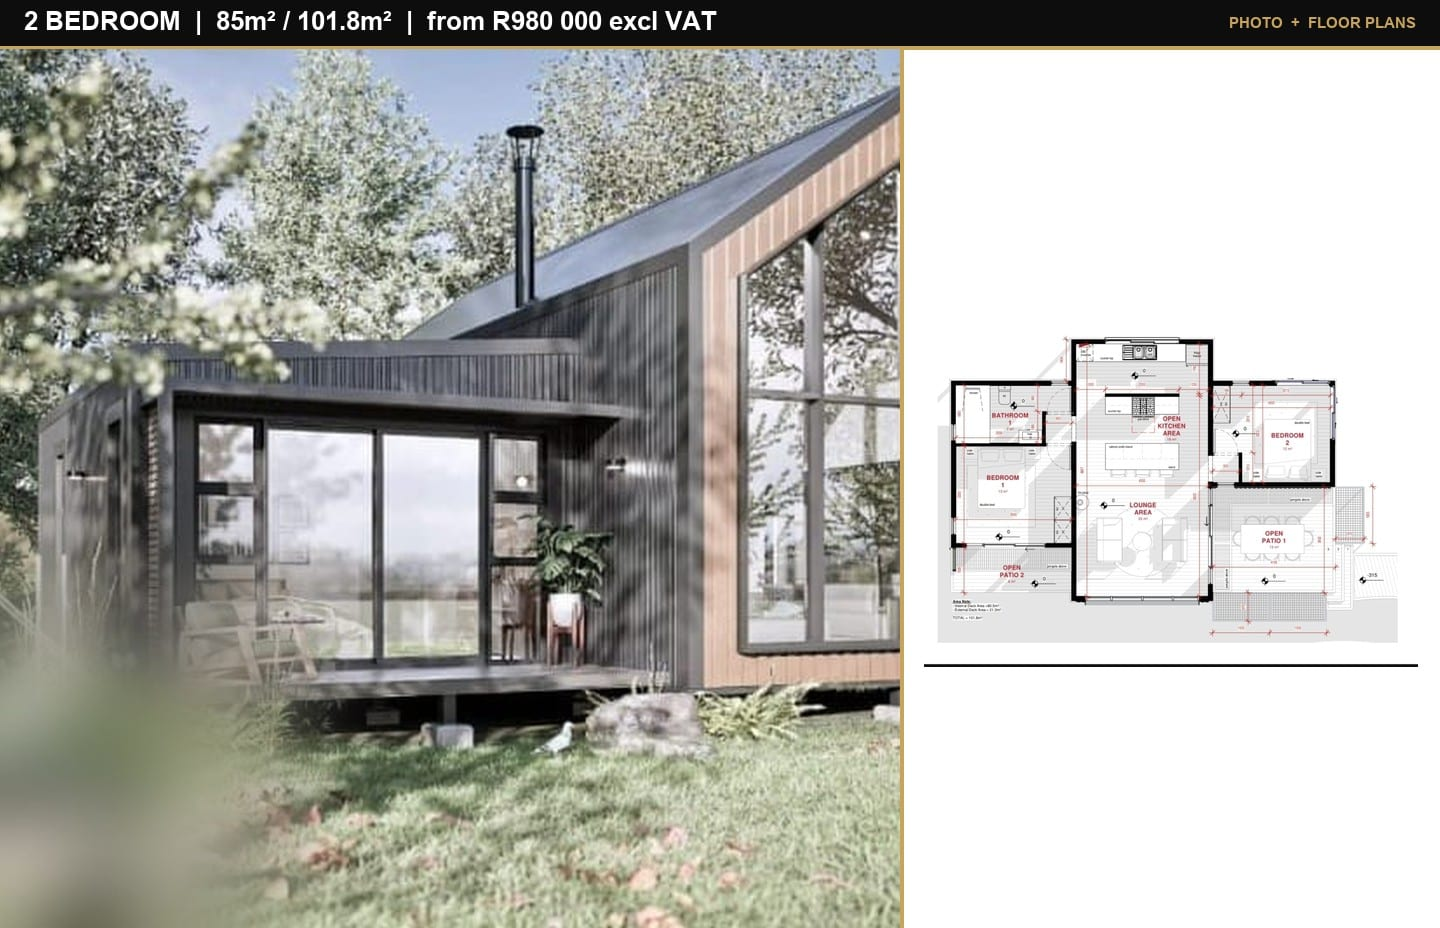
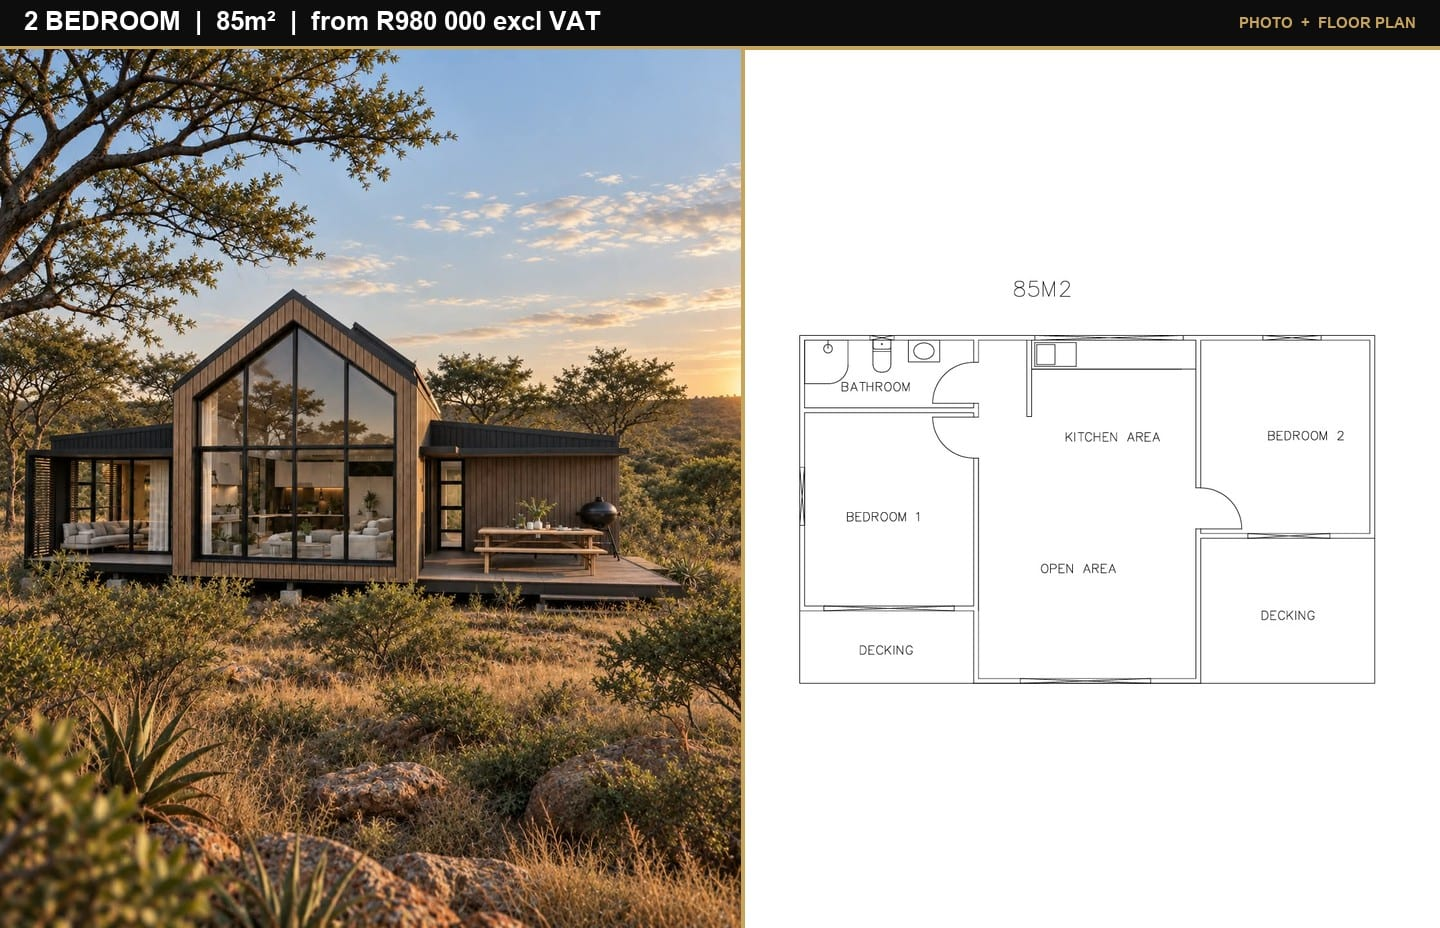
Fix 2BR/3BR cards to match brochure: full photos, add missing floor plans
I had missed the actual floor plan images in the 2026 brochure
(image19.png/image20.png on the 2BR/3BR slide were mislabeled as icons
during extraction and skipped) and was using a cropped landscape photo
that cut off both sides of the house. Rebuilt both composites using the
brochure's own portrait-oriented photos (no cropping needed - sized to
the panel height at their native aspect ratio) alongside their actual
85m² and 100m² floor plans, matching the brochure's layout exactly.

diff --git a/asad-pods.html b/asad-pods.html
@@ -140,7 +140,7 @@
           </div>
 
           <div class="pod-card">
-            <img width="1440" height="928" src="/images/shared/3bedroom-photo.jpg" alt="3 Bedroom Pod, 100m², South Africa">
+            <img width="1440" height="928" src="/images/shared/3bedroom-photo.jpg" alt="3 Bedroom Pod — photo and floor plan, 100m², South Africa">
             <div class="pod-card-body">
               <h3>3 Bedroom Pod</h3>
               <div class="pod-card-icons">
